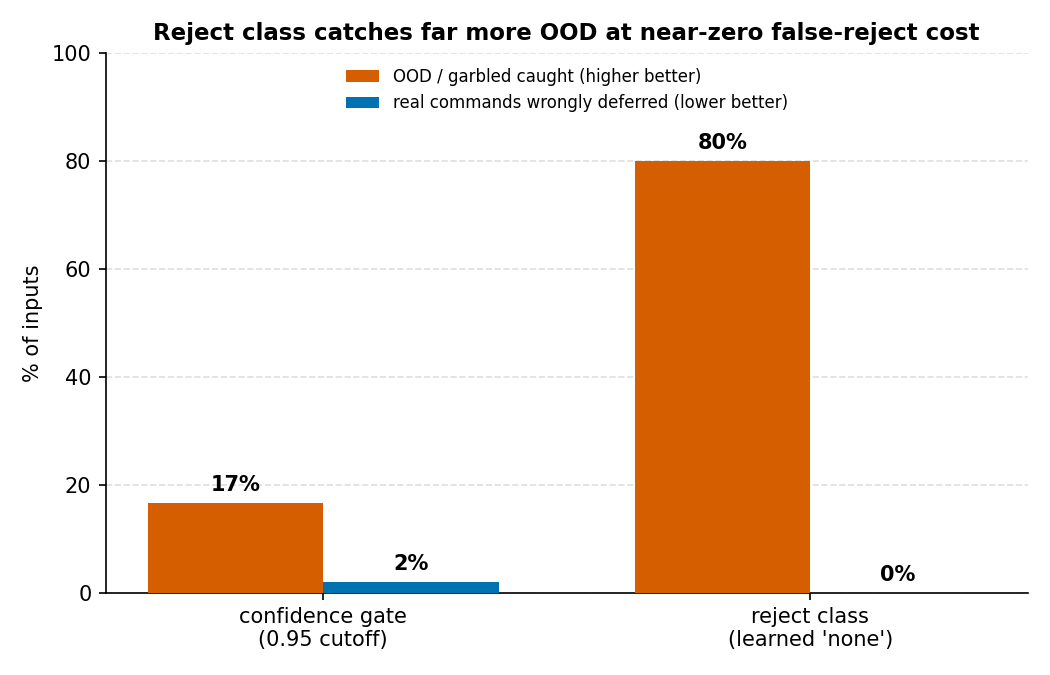
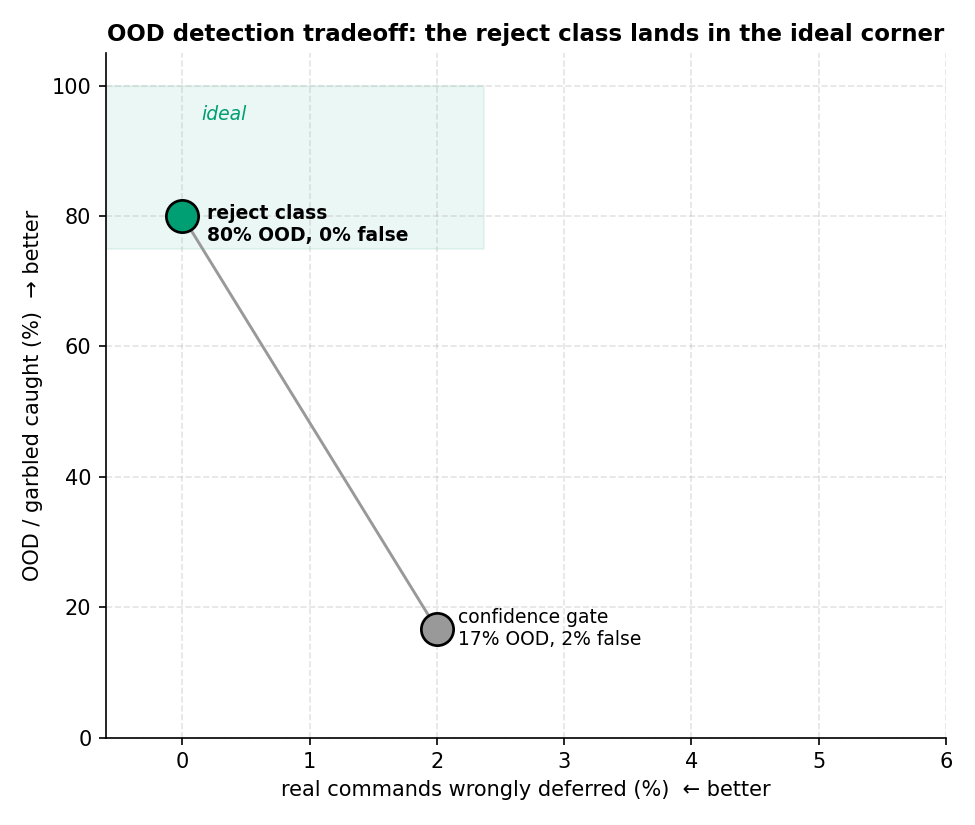
report: regenerate figures and metrics after retrain

diff --git a/report/report.py b/report/report.py
@@ -51,7 +51,7 @@ C_OOD = "#D55E00"
 
 # Routelet's on-device confidence gate: below this, Aegis defers to the Claude
 # fallback. Mirrors ROUTELET_CONFIDENCE_THRESHOLD in the aegis crate's tuning.rs.
-GATE = 0.95
+GATE = 0.55
 
 
 def score_tfidf(texts: list[str], gold: list[str]) -> float:
@@ -118,6 +118,7 @@ def load_ood_probes() -> list[str]:
 def load_haiku(eval_n: int) -> dict | None:
     """Read the cached Claude baseline. Returns the record with a `stale` flag
     set when it was measured on a different holdout size than the current one."""
+
     if not BASELINES.exists():
         return None
     data = json.loads(BASELINES.read_text())
@@ -174,46 +175,83 @@ def plot_model_comparison(metrics: dict) -> Path:
     return out
 
 
-def plot_ood_detection(
-    gate_caught: float, gate_deferred: float, reject_caught: float, reject_deferred: float
-) -> Path:
-    """Figure 2: how each mechanism handles out-of-distribution / garbled input.
-    "caught" = correctly sent to Claude; "wrongly deferred" = a real command sent
-    to Claude by mistake. The reject class (a learned "none" label) catches far
-    more OOD than the confidence gate, at near-zero false-reject cost."""
-    methods = ["confidence gate\n(0.95 cutoff)", "reject class\n(learned 'none')"]
-    caught = [gate_caught * 100, reject_caught * 100]
-    deferred = [gate_deferred * 100, reject_deferred * 100]
-
-    x = np.arange(len(methods))
-    w = 0.36
+def plot_confidence_histogram(indist: np.ndarray, ood: np.ndarray, gate: float) -> Path:
+    """Figure 2: routelet confidence on in-distribution holdout vs OOD/garbled
+    probes, with the gate line. The cascade works if in-distribution input sits
+    above the gate (kept on-device) while OOD input falls below it (deferred to
+    Claude). Overlapping (not stacked) histograms, densities so the two groups
+    are comparable despite different counts."""
+    bins = np.linspace(0.0, 1.0, 21)
     fig, ax = plt.subplots(figsize=(7, 4.5))
-    b1 = ax.bar(x - w / 2, caught, w, color=C_OOD,
-                label="OOD / garbled caught (higher better)", zorder=3)
-    b2 = ax.bar(x + w / 2, deferred, w, color=C_INDIST,
-                label="real commands wrongly deferred (lower better)", zorder=3)
-    for bars in (b1, b2):
-        for bar in bars:
-            ax.text(bar.get_x() + bar.get_width() / 2, bar.get_height() + 1.5,
-                    f"{bar.get_height():.0f}%", ha="center", va="bottom",
-                    fontsize=10, fontweight="bold")
+    ax.hist(indist, bins=bins, color=C_INDIST, alpha=0.6, density=True,
+            label=f"in-distribution holdout (n={len(indist)})", zorder=3)
+    ax.hist(ood, bins=bins, color=C_OOD, alpha=0.7, density=True,
+            label=f"OOD / garbled probe (n={len(ood)})", zorder=3)
 
-    ax.set_xticks(x)
-    ax.set_xticklabels(methods, fontsize=10)
-    ax.set_ylabel("% of inputs")
-    ax.set_ylim(0, 100)
+    ax.axvline(gate, color="black", linestyle="--", linewidth=1.2, zorder=4)
+    ymax = ax.get_ylim()[1]
+    ax.text(gate - 0.012, ymax * 0.96, f"{gate:.2f} gate", ha="right", va="top", fontsize=9)
+    ax.text(gate - 0.012, ymax * 0.55, "← defer to Claude", ha="right", fontsize=8, color="#555")
+    ax.text(gate + 0.012, ymax * 0.55, "kept on-device →", ha="left", fontsize=8, color="#555")
+
+    ood_deferred = int((ood < gate).sum())
+    indist_kept = int((indist >= gate).sum())
     ax.set_title(
-        "Reject class catches far more OOD at near-zero false-reject cost",
+        f"OOD defers {ood_deferred}/{len(ood)}, in-distribution keeps "
+        f"{indist_kept}/{len(indist)} at the {gate:.2f} gate",
         fontsize=11, fontweight="bold",
     )
-    ax.legend(frameon=False, loc="upper center", fontsize=8)
+    ax.set_xlabel("routelet confidence (temperature-scaled max softmax)")
+    ax.set_ylabel("density")
+    ax.set_xlim(0, 1)
+    ax.legend(frameon=False, loc="upper left")
     ax.yaxis.grid(True, linestyle="--", alpha=0.4, zorder=0)
     ax.set_axisbelow(True)
     for spine in ("top", "right"):
         ax.spines[spine].set_visible(False)
     fig.tight_layout()
 
-    out = OUT_DIR / "ood_detection.png"
+    out = OUT_DIR / "confidence_histogram.png"
+    fig.savefig(out, dpi=150)
+    plt.close(fig)
+    return out
+
+
+def plot_deferral_tradeoff(indist: np.ndarray, ood: np.ndarray, gate: float) -> Path:
+    """Figure 3: as the confidence cutoff rises, what fraction of in-distribution
+    commands get wrongly deferred to Claude vs what fraction of OOD/garbled input
+    gets caught. The two lines never separate cleanly, which is why no cutoff
+    makes the gate work: catching OOD means deferring real commands too."""
+    thresholds = np.linspace(0.5, 1.0, 101)
+    id_deferred = np.array([(indist < t).mean() for t in thresholds]) * 100
+    ood_caught = np.array([(ood < t).mean() for t in thresholds]) * 100
+
+    fig, ax = plt.subplots(figsize=(7.5, 4.5))
+    ax.plot(thresholds, ood_caught, color=C_OOD, linewidth=2.4,
+            label="OOD / garbled caught (good)", zorder=3)
+    ax.plot(thresholds, id_deferred, color=C_INDIST, linewidth=2.4,
+            label="real commands wrongly deferred (bad)", zorder=3)
+
+    ax.axvline(gate, color="#777", linestyle="--", linewidth=1.2, zorder=2)
+    ax.text(gate, 102, f"current cutoff {gate:.2f}", ha="center", va="bottom",
+            fontsize=8, color="#555")
+
+    ax.set_xlabel("confidence cutoff (defer to Claude below it)")
+    ax.set_ylabel("% of inputs deferred")
+    ax.set_title(
+        "No cutoff works: catching garbage means deferring real commands too",
+        fontsize=11, fontweight="bold",
+    )
+    ax.set_xlim(0.5, 1.0)
+    ax.set_ylim(0, 105)
+    ax.legend(loc="upper left", frameon=False)
+    ax.grid(True, linestyle="--", alpha=0.4, zorder=0)
+    ax.set_axisbelow(True)
+    for spine in ("top", "right"):
+        ax.spines[spine].set_visible(False)
+    fig.tight_layout()
+
+    out = OUT_DIR / "deferral_tradeoff.png"
     fig.savefig(out, dpi=150)
     plt.close(fig)
     return out
@@ -235,29 +273,29 @@ def main() -> None:
     setfit_acc = float(correct.mean())
     print(f"  SetFit  {setfit_acc:.3f}")
 
-    # OOD detection: compare the old confidence gate to the reject class on the
-    # same hand-written probe set (caught) and the holdout (wrongly deferred).
+    # OOD/garbled probe: confidence on inputs the gate is meant to defer.
     ood_texts = load_ood_probes()
-    ood_conf, ood_preds = setfit_predict(bundle, ood_texts)
-    gate_caught = float((ood_conf < GATE).mean())
-    reject_caught = float(np.mean([p == "none" for p in ood_preds]))
-    gate_deferred = float((conf < GATE).mean())
-    reject_deferred = float(np.mean([p == "none" for p in preds]))
-    ood_stats = {
-        "probe_n": len(ood_texts),
-        "confidence_gate": {"threshold": GATE, "ood_caught": round(gate_caught, 3),
-                            "real_deferred": round(gate_deferred, 3)},
-        "reject_class": {"ood_caught": round(reject_caught, 3),
-                         "real_deferred": round(reject_deferred, 3)},
+    ood_conf, _ = setfit_predict(bundle, ood_texts)
+
+    # Confidence gate operating point: what the cascade does at GATE.
+    indist_kept = conf >= GATE
+    ood_deferred = ood_conf < GATE
+    gate_stats = {
+        "threshold": GATE,
+        "in_distribution_kept_share": round(float(indist_kept.mean()), 3),
+        "ood_deferred_share": round(float(ood_deferred.mean()), 3),
+        "kept_accuracy": (
+            round(float(correct[indist_kept].mean()), 3) if indist_kept.any() else None
+        ),
     }
-    print(f"  OOD caught: gate {gate_caught:.0%}, reject-class {reject_caught:.0%}; "
-          f"real wrongly deferred: gate {gate_deferred:.0%}, reject {reject_deferred:.0%}")
+    print(f"  gate {GATE}: in-dist keeps {gate_stats['in_distribution_kept_share']:.0%}, "
+          f"OOD defers {gate_stats['ood_deferred_share']:.0%}")
 
     metrics: dict = {
         "eval_n": eval_n,
         "tfidf": {"accuracy": tfidf_acc},
         "setfit": {"accuracy": setfit_acc},
-        "ood": ood_stats,
+        "gate": gate_stats,
     }
     haiku = load_haiku(eval_n)
     if haiku:
@@ -270,7 +308,8 @@ def main() -> None:
 
     (OUT_DIR / "metrics.json").write_text(json.dumps(metrics, indent=2) + "\n")
     print(f"wrote {plot_model_comparison(metrics)}")
-    print(f"wrote {plot_ood_detection(gate_caught, gate_deferred, reject_caught, reject_deferred)}")
+    print(f"wrote {plot_confidence_histogram(conf, ood_conf, GATE)}")
+    print(f"wrote {plot_deferral_tradeoff(conf, ood_conf, GATE)}")
     print(f"wrote {OUT_DIR / 'metrics.json'}")
 
 